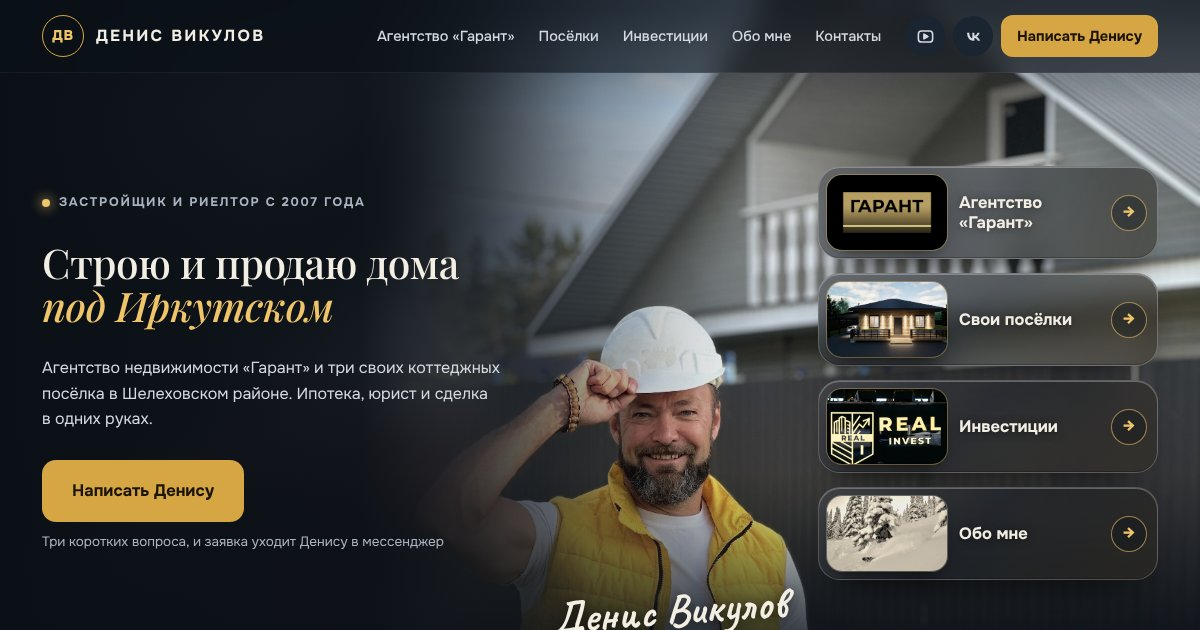
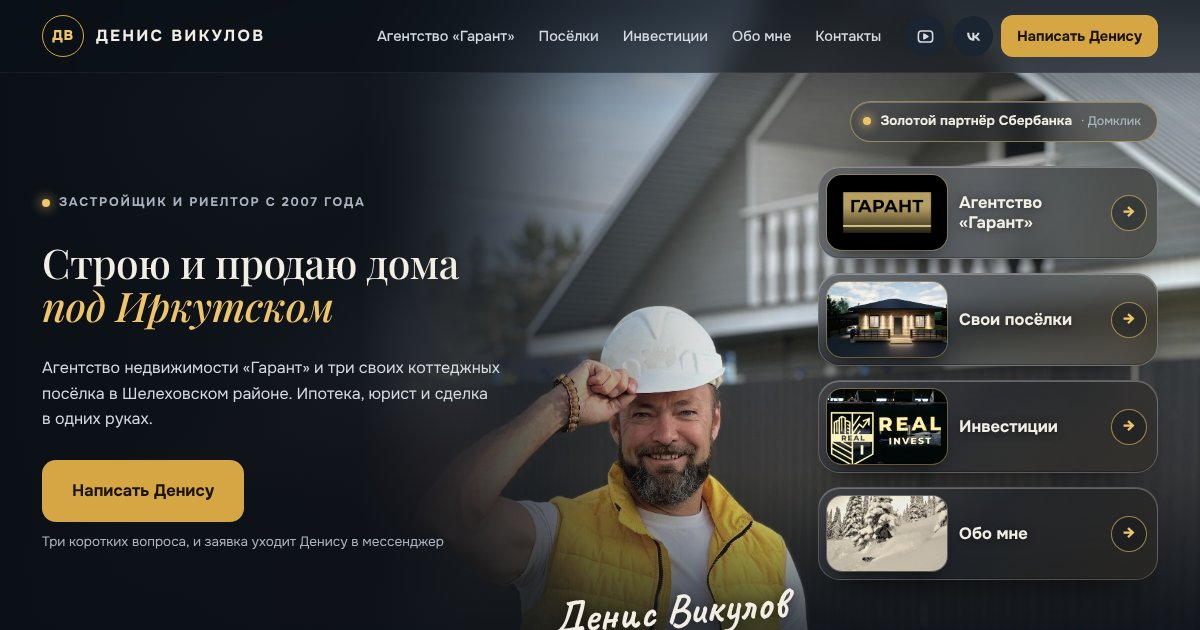
Денис Викулов: плашка «Золотой партнёр Сбербанка» на главном экране в обоих вариантах
Claude-Session: https://claude.ai/code/session_01MqcZMF1QZGroxt2dRB4nWR

Changed region(s): [[0.7092, 0.1508, 0.9867, 0.2413]]

diff --git a/denis-vikulov/index-v2.html b/denis-vikulov/index-v2.html
@@ -76,6 +76,12 @@ nav a:hover{color:var(--gold-hi)}
 .cta small{font-size:13.5px;color:var(--muted)}
 .hero{grid-template-columns:minmax(0,540px) minmax(0,1fr) 380px;column-gap:28px}
 .sign{position:absolute;left:calc(540px + 28px);bottom:40px;font-family:var(--script);font-size:44px;line-height:1;color:var(--ink);text-shadow:0 2px 14px rgb(0 0 0 / .7);transform:rotate(-4deg)}
+.sber{position:absolute;z-index:3;top:28px;right:0;display:inline-flex;align-items:center;gap:9px;padding:9px 16px 9px 12px;border-radius:999px;font-size:13.5px;font-weight:700;white-space:nowrap;color:var(--ink);text-decoration:none;
+  background:linear-gradient(135deg,rgb(255 255 255 / .14),rgb(255 255 255 / .03) 45%,rgb(214 166 69 / .12)),rgb(11 16 23 / .5);backdrop-filter:blur(16px) saturate(1.4);-webkit-backdrop-filter:blur(16px) saturate(1.4);
+  border:1px solid rgb(240 197 106 / .5);box-shadow:inset 0 1px 0 rgb(255 255 255 / .25),0 16px 30px -18px rgb(0 0 0 / .8)}
+.sber::before{content:"";width:8px;height:8px;border-radius:50%;background:var(--gold-hi);box-shadow:0 0 10px 2px rgb(240 197 106 / .6)}
+.sber small{font-weight:500;color:var(--muted);font-size:12.5px}
+@media (max-width:960px){.sber{top:16px;font-size:12.5px;padding:7px 13px 7px 10px}.sber small{display:none}}
 /* четыре кнопки-направления справа: стеклянные плашки, фото внутри почти без обрезки */
 .go{grid-column:3;display:grid;gap:14px;align-content:center}
 .go a{position:relative;display:grid;grid-template-columns:150px minmax(0,1fr) 36px;gap:16px;align-items:center;padding:8px 14px 8px 8px;border-radius:22px;text-decoration:none;
@@ -260,6 +266,7 @@ dialog p{color:var(--muted);font-size:14.5px;margin-bottom:8px}
           <small>Три коротких вопроса, и&nbsp;заявка уходит Денису в&nbsp;мессенджер</small>
         </div>
       </div>
+      <a class="sber" href="#struktura">Золотой партнёр Сбербанка <small>· Домклик</small></a>
       <span class="sign">Денис Викулов</span>
       <div class="go" role="navigation" aria-label="Направления">
         <a href="#struktura"><span class="pic" style="background-image:url(img/garant-shirokij.jpg)"></span><span><b>Агентство «Гарант»</b><small>Купить, продать, ипотека, юрист</small></span><span class="ar">→</span></a>

diff --git a/denis-vikulov/index.html b/denis-vikulov/index.html
@@ -76,6 +76,12 @@ nav a:hover{color:var(--gold-hi)}
 .cta small{font-size:13.5px;color:var(--muted)}
 .hero{grid-template-columns:minmax(0,540px) minmax(0,1fr) 380px;column-gap:28px}
 .sign{position:absolute;left:calc(540px + 28px);bottom:40px;font-family:var(--script);font-size:44px;line-height:1;color:var(--ink);text-shadow:0 2px 14px rgb(0 0 0 / .7);transform:rotate(-4deg)}
+.sber{position:absolute;z-index:3;top:28px;right:0;display:inline-flex;align-items:center;gap:9px;padding:9px 16px 9px 12px;border-radius:999px;font-size:13.5px;font-weight:700;white-space:nowrap;color:var(--ink);text-decoration:none;
+  background:linear-gradient(135deg,rgb(255 255 255 / .14),rgb(255 255 255 / .03) 45%,rgb(214 166 69 / .12)),rgb(11 16 23 / .5);backdrop-filter:blur(16px) saturate(1.4);-webkit-backdrop-filter:blur(16px) saturate(1.4);
+  border:1px solid rgb(240 197 106 / .5);box-shadow:inset 0 1px 0 rgb(255 255 255 / .25),0 16px 30px -18px rgb(0 0 0 / .8)}
+.sber::before{content:"";width:8px;height:8px;border-radius:50%;background:var(--gold-hi);box-shadow:0 0 10px 2px rgb(240 197 106 / .6)}
+.sber small{font-weight:500;color:var(--muted);font-size:12.5px}
+@media (max-width:960px){.sber{top:16px;font-size:12.5px;padding:7px 13px 7px 10px}.sber small{display:none}}
 /* четыре кнопки-направления справа: стеклянные плашки, фото внутри почти без обрезки */
 .go{grid-column:3;display:grid;gap:14px;align-content:center}
 .go a{position:relative;display:grid;grid-template-columns:150px minmax(0,1fr) 36px;gap:16px;align-items:center;padding:8px 14px 8px 8px;border-radius:22px;text-decoration:none;
@@ -239,6 +245,7 @@ dialog p{color:var(--muted);font-size:14.5px;margin-bottom:8px}
           <small>Три коротких вопроса, и&nbsp;заявка уходит Денису в&nbsp;мессенджер</small>
         </div>
       </div>
+      <a class="sber" href="#struktura">Золотой партнёр Сбербанка <small>· Домклик</small></a>
       <span class="sign">Денис Викулов</span>
       <div class="go" role="navigation" aria-label="Направления">
         <a href="#struktura"><span class="pic" style="background-image:url(img/garant-shirokij.jpg)"></span><span><b>Агентство «Гарант»</b><small>Купить, продать, ипотека, юрист</small></span><span class="ar">→</span></a>
